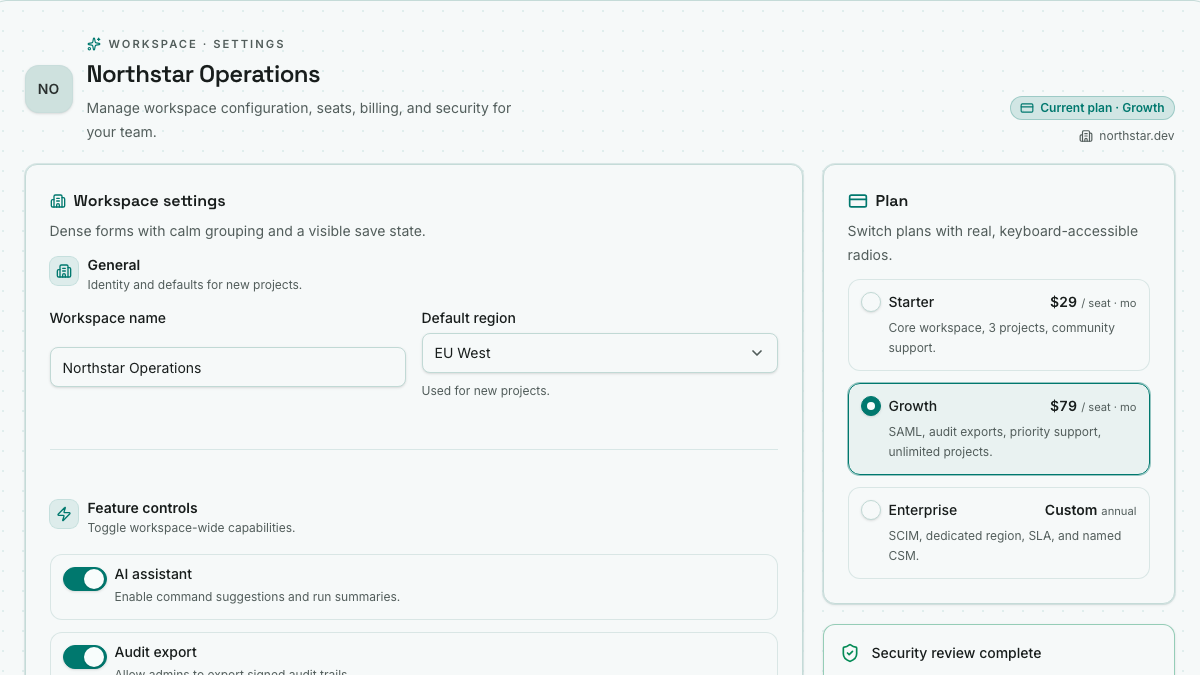
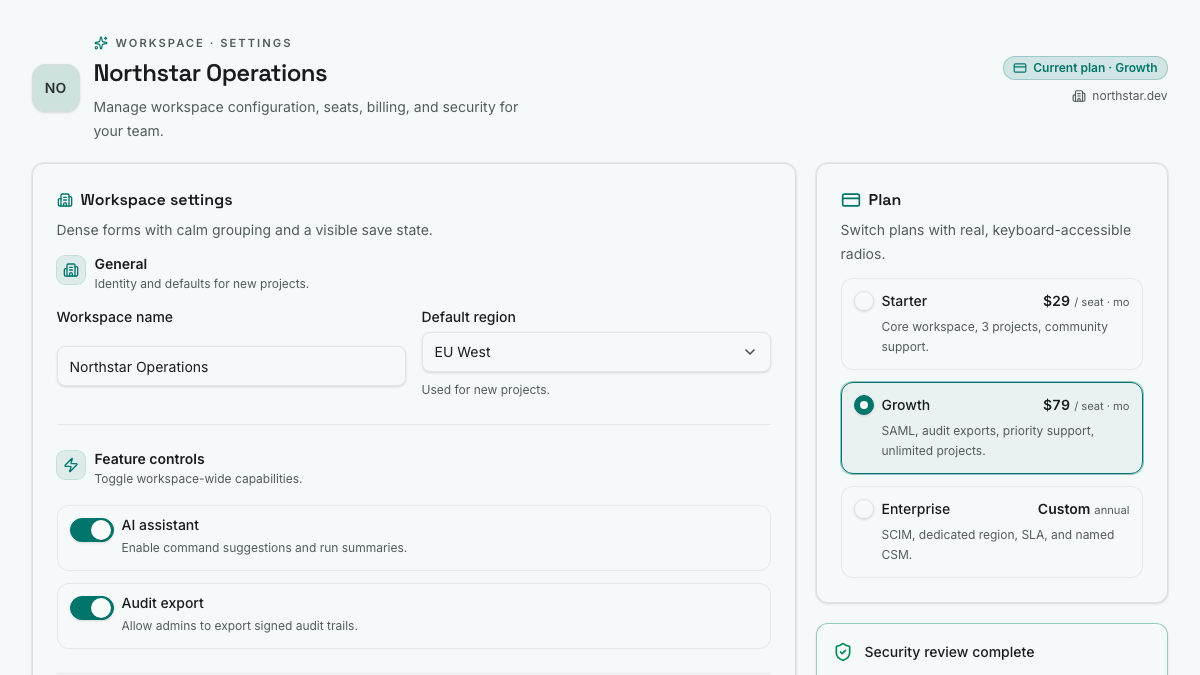
fix: align settings and billing recipe

diff --git a/apps/showcase/src/examples/recipes/settings-and-billing.tsx b/apps/showcase/src/examples/recipes/settings-and-billing.tsx
@@ -198,6 +198,8 @@ export function SettingsAndBillingRecipe({
   const [saved, setSaved] = useState<null | string>(null);
   const [plan, setPlan] = useState("growth");
   const fullPage = presentation === "full-page";
+  const currentPlanLabel =
+    plans.find((candidate) => candidate.value === plan)?.label ?? "Growth";
 
   return (
     <div
@@ -214,7 +216,7 @@ export function SettingsAndBillingRecipe({
 
       <div className="space-y-5">
         {/* Header band */}
-        <div className="flex flex-wrap items-end justify-between gap-4">
+        <div className="flex flex-wrap items-start justify-between gap-4">
           <div className="flex items-center gap-3.5">
             <span
               aria-hidden="true"
@@ -244,10 +246,15 @@ export function SettingsAndBillingRecipe({
             </div>
           </div>
 
-          <div className="flex flex-col items-end gap-2">
-            <span className="bg-primary/15 text-primary ring-primary/25 inline-flex items-center gap-1.5 rounded-full px-2.5 py-1 text-xs font-semibold ring-1 ring-inset">
+          <div className="flex flex-col items-start gap-2 ps-[3.875rem] sm:items-end sm:ps-0 sm:pt-6">
+            <span
+              aria-live="polite"
+              aria-atomic="true"
+              data-settings-current-plan
+              className="bg-primary/15 text-primary ring-primary/25 inline-flex items-center gap-1.5 rounded-full px-2.5 py-1 text-xs font-semibold ring-1 ring-inset"
+            >
               <CreditCard className="size-3.5" aria-hidden="true" />
-              Current plan · Growth
+              Current plan · {currentPlanLabel}
             </span>
             <span className="text-muted-foreground inline-flex items-center gap-1.5 text-xs">
               <Building2 className="size-3.5" aria-hidden="true" />
@@ -256,10 +263,11 @@ export function SettingsAndBillingRecipe({
           </div>
         </div>
 
-        <div className="grid gap-5 lg:grid-cols-[minmax(0,1fr)_22rem]">
-          <div className="space-y-5">
+        <div className="grid grid-cols-[minmax(0,1fr)] items-start gap-5 lg:grid-cols-[minmax(0,1fr)_22rem]">
+          <div className="min-w-0 space-y-5">
             {/* Settings card */}
             <Card
+              data-settings-panel="workspace"
               shadow="sm"
               className="ring-border/60 relative overflow-hidden ring-1 backdrop-blur-sm"
             >
@@ -277,7 +285,7 @@ export function SettingsAndBillingRecipe({
               </CardHeader>
               <CardContent>
                 <Form
-                  className="space-y-6"
+                  spacing="md"
                   onSubmit={(event) => {
                     event.preventDefault();
                     setSaved("All changes saved");
@@ -312,7 +320,7 @@ export function SettingsAndBillingRecipe({
                   <div className="border-border/60 border-t" />
 
                   {/* Feature controls */}
-                  <FieldSet className="space-y-4">
+                  <FieldSet className="grid gap-4">
                     <SectionHeading
                       icon={Zap}
                       title="Feature controls"
@@ -525,9 +533,10 @@ export function SettingsAndBillingRecipe({
             </Card>
           </div>
 
-          <aside className="space-y-5">
+          <aside className="min-w-0 space-y-5">
             {/* Plan selection */}
             <Card
+              data-settings-panel="plan"
               shadow="sm"
               className="ring-border/60 ring-1 backdrop-blur-sm"
             >
@@ -567,7 +576,7 @@ export function SettingsAndBillingRecipe({
                             <FieldContent>
                               <div className="flex items-baseline justify-between gap-2">
                                 <FieldLabel>{item.label}</FieldLabel>
-                                <span className="text-foreground text-sm font-semibold tabular-nums">
+                                <span className="text-foreground shrink-0 text-sm font-semibold whitespace-nowrap tabular-nums">
                                   {item.price}
                                   <span className="text-muted-foreground ml-1 text-[0.7rem] font-normal">
                                     {item.cadence}

diff --git a/e2e/showcase-recipe-full-page.spec.ts b/e2e/showcase-recipe-full-page.spec.ts
@@ -289,4 +289,76 @@ test.describe("showcase full-page recipe shell", () => {
     await expect(back).toHaveCSS("outline-style", "solid");
     await expect(back).toHaveCSS("outline-width", "2px");
   });
+
+  test("keeps settings and billing spacing and plan state aligned", async ({
+    page,
+  }) => {
+    await page.setViewportSize({ width: 1440, height: 1100 });
+    await page.goto("/recipes/settings-and-billing");
+
+    const workspacePanel = page.locator('[data-settings-panel="workspace"]');
+    const planPanel = page.locator('[data-settings-panel="plan"]');
+    const form = workspacePanel.locator('[data-slot="form"]');
+    const title = page.getByRole("heading", {
+      level: 2,
+      name: "Northstar Operations",
+    });
+    const currentPlan = page.locator("[data-settings-current-plan]");
+    const growth = page.getByRole("radio", { name: "Growth" });
+    const starter = page.getByRole("radio", { name: "Starter" });
+
+    const workspaceBounds = await workspacePanel.boundingBox();
+    const planBounds = await planPanel.boundingBox();
+    const formBounds = await form.boundingBox();
+    const titleBounds = await title.boundingBox();
+    const summaryBounds = await currentPlan.boundingBox();
+
+    expect(workspaceBounds).not.toBeNull();
+    expect(planBounds).not.toBeNull();
+    expect(workspaceBounds!.y).toBeCloseTo(planBounds!.y, 0);
+    expect(formBounds).not.toBeNull();
+    expect(formBounds!.height).toBeLessThan(700);
+    expect(titleBounds).not.toBeNull();
+    expect(summaryBounds).not.toBeNull();
+    expect(Math.abs(summaryBounds!.y - titleBounds!.y)).toBeLessThanOrEqual(2);
+
+    await expect(growth).toBeChecked();
+    await expect(currentPlan).toHaveText("Current plan · Growth");
+    await starter.check();
+    await expect(starter).toBeChecked();
+    await expect(currentPlan).toHaveText("Current plan · Starter");
+
+    await page.setViewportSize({ width: 390, height: 844 });
+    await page.reload();
+
+    const surface = page.locator(
+      '[data-recipe-surface="settings-and-billing"]',
+    );
+    const mobileSurfaceBounds = await surface.boundingBox();
+    const mobileWorkspaceBounds = await workspacePanel.boundingBox();
+    const mobilePlanBounds = await planPanel.boundingBox();
+    const mobileTitleBounds = await title.boundingBox();
+    const mobileSummaryBounds = await currentPlan.boundingBox();
+    expect(mobileSurfaceBounds).not.toBeNull();
+    expect(mobileWorkspaceBounds).not.toBeNull();
+    expect(mobilePlanBounds).not.toBeNull();
+    expect(
+      mobileWorkspaceBounds!.x + mobileWorkspaceBounds!.width,
+    ).toBeLessThanOrEqual(mobileSurfaceBounds!.x + mobileSurfaceBounds!.width);
+    expect(mobilePlanBounds!.x + mobilePlanBounds!.width).toBeLessThanOrEqual(
+      mobileSurfaceBounds!.x + mobileSurfaceBounds!.width,
+    );
+    expect(mobileTitleBounds).not.toBeNull();
+    expect(mobileSummaryBounds).not.toBeNull();
+    expect(mobileSummaryBounds!.y).toBeGreaterThan(
+      mobileTitleBounds!.y + mobileTitleBounds!.height,
+    );
+    await expect
+      .poll(() =>
+        page.evaluate(
+          () => document.documentElement.scrollWidth <= window.innerWidth,
+        ),
+      )
+      .toBe(true);
+  });
 });

diff --git a/docs/showcase/settings-billing-implementation-notes.md b/docs/showcase/settings-billing-implementation-notes.md
@@ -1,0 +1,33 @@
+# Settings and Billing Recipe — Implementation Notes
+
+## Status
+
+- GitHub PRD: [#402 — Refine settings and billing recipe alignment](https://github.com/parveshh/dethink-components/issues/402).
+- Implementation slice: [#403 — Tighten settings and billing recipe spacing and state alignment](https://github.com/parveshh/dethink-components/issues/403).
+
+## Observed Problems
+
+- The Form primitive already renders a tokenized grid gap, while the recipe also applied `space-y-6`. Those independent spacing systems accumulated between every child and stretched the form vertically.
+- The workspace identity block and plan summary were bottom-aligned, placing the plan badge beside the description instead of the title line.
+- The current-plan summary duplicated the plan name instead of deriving it from the controlled radio-group state.
+- Plan price and cadence text could wrap independently from the option title at constrained widths.
+- The mobile single-column grid used an implicit auto-sized track, allowing a child minimum width to expand the settings card beyond the recipe canvas where it was clipped rather than reflowed.
+
+## Implementation Decisions
+
+- Use the Form primitive's `spacing="md"` contract as the only gap between General, Feature controls, Approvals, dividers, and the save row.
+- Keep local `gap-4` group spacing inside each section, where proximity communicates the heading-to-control relationship.
+- Align the header from the top and offset the desktop plan summary to the title line while leaving mobile stacking in document order.
+- Align the stacked mobile plan summary with the workspace title column using logical inline padding.
+- Derive the current-plan label from the controlled radio value and announce changes politely.
+- Keep plan price and cadence together without changing radio semantics or the existing responsive grid.
+- Define the base content track as `minmax(0, 1fr)` and allow both columns to shrink with `min-w-0`, so narrow layouts reflow without hidden overflow.
+
+## Test Seams
+
+- Workspace and Plan card top-edge alignment at desktop width.
+- Compact Form height as a regression guard against doubled spacing.
+- Initial Growth selection, current-plan agreement, and a Starter selection update.
+- Mobile header stacking and document-level overflow.
+- Mobile workspace and plan panel bounds, guarding against content that is clipped before it reaches the document scroll width while preserving the invoices table's intentional internal scroll container.
+- Existing recipe keyboard, reduced-motion, theme, and axe coverage.

diff --git a/docs/showcase/final-verification.md b/docs/showcase/final-verification.md
@@ -43,12 +43,13 @@ Desktop captures use 1440×900. Mobile captures use 390×844. Captures use the t
 - Targeted ESLint: passed.
 - Showcase production build: passed, including all statically generated component and recipe routes.
 - Component package: 227 test files and 2,015 tests passed.
-- Showcase end-to-end: all 44 tests passed in Chromium.
+- Showcase end-to-end: all 45 tests passed in Chromium.
 - Full-page recipe contract: all ten canonical recipe routes passed desktop and mobile geometry, viewport coverage, and overflow checks.
 - Wide-monitor recipe contract: the live product canvas remains fluid through 1200px, then centers at a 1200px maximum without changing the full-width demo controls or documentation flow.
 - Full-page recipe journeys: keyboard order, gallery-to-demo-to-details-to-source-to-gallery navigation, reduced motion, 200%-equivalent reflow, and forced-colors focus passed.
 - Axe: no WCAG 2 A/AA violations on the changed homepage, catalog, Button documentation, or recipe gallery in either color scheme.
 - Recipe axe: no WCAG 2 A/AA violations on representative authentication, marketing, dashboard, and AI product surfaces in light or dark mode.
+- Settings and billing: desktop panel/header alignment, compact Form spacing, controlled plan-summary agreement, mobile panel bounds, and plan interaction passed.
 - Theme resilience: all six brands in light and dark meet the documented text, boundary, focus-ring, primary, and destructive contrast targets.
 
 The detailed token measurements are recorded in [theme-contrast-audit.md](./theme-contrast-audit.md).
